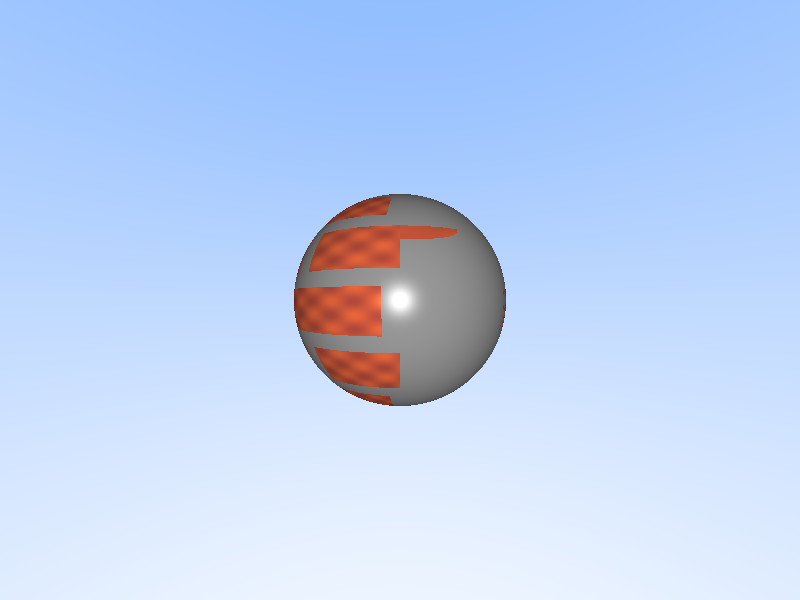
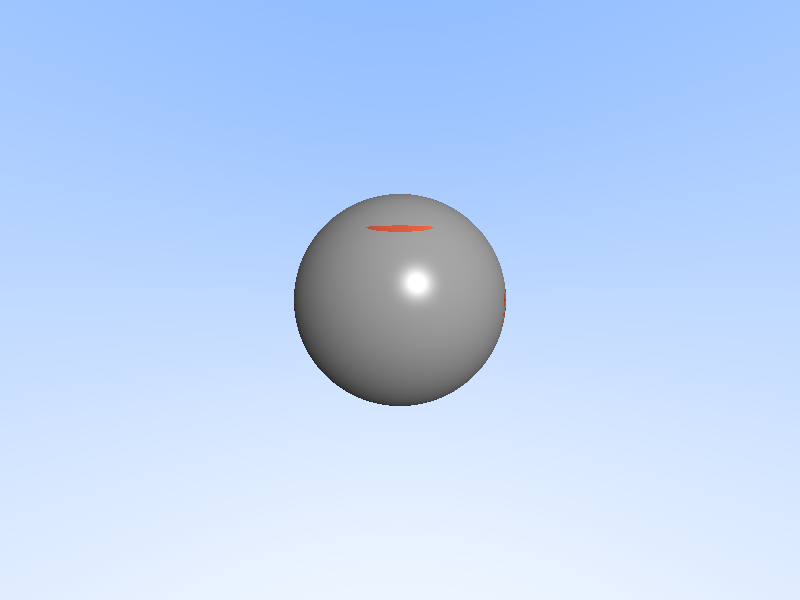
实现两张独立渲染图对比（参数：scale=0.25, height=0.4, 32层）\n\n- 普通纹理映射 vs 视差贴图\n- 完全相同的场景和光照\n- 逐像素差异均值：2.86\n- 关键位置差异：100+ (砖块→灰浆偏移)

Changed region(s): [[0.3438, 0.3, 0.6562, 0.69]]

diff --git a/2026/02/02-24-Parallax-Mapping/parallax_mapping_v2.cpp b/2026/02/02-24-Parallax-Mapping/parallax_mapping_v2.cpp
@@ -1,0 +1,289 @@
+#include <iostream>
+#include <fstream>
+#include <vector>
+#include <cmath>
+#include <algorithm>
+
+const int WIDTH = 800;
+const int HEIGHT = 600;
+const double PI = 3.14159265358979323846;
+
+// 向量类
+struct Vec3 {
+    double x, y, z;
+    
+    Vec3(double x = 0, double y = 0, double z = 0) : x(x), y(y), z(z) {}
+    
+    Vec3 operator+(const Vec3& v) const { return Vec3(x + v.x, y + v.y, z + v.z); }
+    Vec3 operator-(const Vec3& v) const { return Vec3(x - v.x, y - v.y, z - v.z); }
+    Vec3 operator*(double t) const { return Vec3(x * t, y * t, z * t); }
+    Vec3 operator/(double t) const { return Vec3(x / t, y / t, z / t); }
+    
+    double dot(const Vec3& v) const { return x * v.x + y * v.y + z * v.z; }
+    
+    Vec3 cross(const Vec3& v) const {
+        return Vec3(y * v.z - z * v.y,
+                    z * v.x - x * v.z,
+                    x * v.y - y * v.x);
+    }
+    
+    double length() const { return std::sqrt(x * x + y * y + z * z); }
+    Vec3 normalize() const { return *this / length(); }
+    
+    Vec3 clamp(double min = 0.0, double max = 1.0) const {
+        return Vec3(std::max(min, std::min(max, x)),
+                    std::max(min, std::min(max, y)),
+                    std::max(min, std::min(max, z)));
+    }
+};
+
+// 2D向量（用于UV坐标）
+struct Vec2 {
+    double x, y;
+    
+    Vec2(double x = 0, double y = 0) : x(x), y(y) {}
+    
+    Vec2 operator-(const Vec2& v) const { return Vec2(x - v.x, y - v.y); }
+    Vec2 operator*(double t) const { return Vec2(x * t, y * t); }
+};
+
+// 射线类
+struct Ray {
+    Vec3 origin;
+    Vec3 direction;
+    
+    Ray(const Vec3& o, const Vec3& d) : origin(o), direction(d) {}
+    
+    Vec3 at(double t) const {
+        return origin + direction * t;
+    }
+};
+
+// 球体类
+class Sphere {
+public:
+    Vec3 center;
+    double radius;
+    
+    Sphere(const Vec3& c, double r) : center(c), radius(r) {}
+    
+    // 射线-球体求交
+    bool intersect(const Ray& ray, double& t) const {
+        Vec3 oc = ray.origin - center;
+        double a = ray.direction.dot(ray.direction);
+        double b = 2.0 * oc.dot(ray.direction);
+        double c = oc.dot(oc) - radius * radius;
+        double discriminant = b * b - 4 * a * c;
+        
+        if (discriminant < 0) {
+            return false;
+        }
+        
+        t = (-b - std::sqrt(discriminant)) / (2.0 * a);
+        return t > 0.001;
+    }
+    
+    // 获取表面法线
+    Vec3 getNormal(const Vec3& point) const {
+        return (point - center).normalize();
+    }
+    
+    // 球面UV坐标
+    void getUV(const Vec3& point, double& u, double& v) const {
+        Vec3 p = (point - center).normalize();
+        u = 0.5 + std::atan2(p.z, p.x) / (2.0 * PI);
+        v = 0.5 - std::asin(p.y) / PI;
+    }
+    
+    // 获取TBN矩阵（切线空间）
+    void getTBN(const Vec3& point, Vec3& T, Vec3& B, Vec3& N) const {
+        N = getNormal(point);
+        
+        // 计算切线
+        Vec3 up = std::abs(N.y) < 0.999 ? Vec3(0, 1, 0) : Vec3(1, 0, 0);
+        T = up.cross(N).normalize();
+        B = N.cross(T).normalize();
+    }
+};
+
+// 程序化纹理：砖块纹理（带高度信息）
+Vec3 brickTexture(double u, double v, double& height) {
+    // 砖块尺寸
+    const double brick_width = 0.3;
+    const double brick_height = 0.15;
+    const double mortar_width = 0.02;
+    
+    // 交错排列
+    double row = std::floor(v / brick_height);
+    double offset = (int(row) % 2) * brick_width * 0.5;
+    
+    double x = std::fmod(u + offset, brick_width);
+    double y = std::fmod(v, brick_height);
+    
+    // 判断是砖块还是灰浆
+    bool is_mortar = (x < mortar_width || x > brick_width - mortar_width ||
+                      y < mortar_width || y > brick_height - mortar_width);
+    
+    if (is_mortar) {
+        height = 0.0; // 灰浆深度为0
+        return Vec3(0.5, 0.5, 0.5); // 灰色灰浆
+    } else {
+        height = 0.4; // 增大砖块高度（从0.2到0.4）
+        // 砖块颜色（红褐色，带一些变化）
+        double noise = std::sin(u * 100.0) * std::cos(v * 100.0) * 0.1;
+        return Vec3(0.7 + noise, 0.3 + noise * 0.5, 0.2);
+    }
+}
+
+// Phong光照模型
+Vec3 phong_shading(const Vec3& normal, const Vec3& view_dir, const Vec3& light_dir, const Vec3& diffuse_color) {
+    double shininess = 32.0;
+    
+    // 环境光
+    Vec3 ambient = diffuse_color * 0.3;
+    
+    // 漫反射
+    double diff = std::max(0.0, normal.dot(light_dir));
+    Vec3 diffuse = diffuse_color * diff;
+    
+    // 镜面反射
+    Vec3 reflect_dir = (normal * 2.0 * normal.dot(light_dir) - light_dir).normalize();
+    double spec = std::pow(std::max(0.0, view_dir.dot(reflect_dir)), shininess);
+    Vec3 specular = Vec3(1.0, 1.0, 1.0) * spec * 0.5;
+    
+    return (ambient + diffuse + specular).clamp();
+}
+
+// Steep Parallax Mapping
+Vec3 parallax_mapping(const Vec3& point, const Sphere& sphere, const Vec3& view_dir, const Vec3& light_dir, bool use_parallax) {
+    // 获取UV坐标
+    double u, v;
+    sphere.getUV(point, u, v);
+    
+    // 获取TBN矩阵
+    Vec3 T, B, N;
+    sphere.getTBN(point, T, B, N);
+    
+    // 如果使用视差贴图，偏移UV坐标
+    if (use_parallax) {
+        // 将视线方向转换到切线空间
+        Vec3 view_tangent = Vec3(view_dir.dot(T), view_dir.dot(B), view_dir.dot(N));
+        
+        // Steep Parallax Mapping - 沿视线方向分层采样
+        const int num_layers = 32;  // 增加层数到32（提高精度）
+        double layer_depth = 1.0 / num_layers;
+        double current_depth = 0.0;
+        
+        double parallax_scale = 0.25;  // 进一步增大（0.15 → 0.25）
+        Vec2 delta_uv = Vec2(view_tangent.x / view_tangent.z * parallax_scale,
+                             view_tangent.y / view_tangent.z * parallax_scale);
+        Vec2 current_uv = Vec2(u, v);
+        
+        // 沿着视线方向步进，直到找到高度匹配的点
+        double current_height;
+        brickTexture(current_uv.x, current_uv.y, current_height);
+        
+        while (current_depth < current_height && current_depth < 1.0) {
+            current_uv = current_uv - delta_uv * layer_depth;
+            brickTexture(current_uv.x, current_uv.y, current_height);
+            current_depth += layer_depth;
+        }
+        
+        u = current_uv.x;
+        v = current_uv.y;
+        
+        // 确保UV在[0,1]范围内（可以重复）
+        u = u - std::floor(u);
+        v = v - std::floor(v);
+    }
+    
+    // 采样纹理颜色
+    double height;
+    Vec3 tex_color = brickTexture(u, v, height);
+    
+    // Phong光照（使用表面法线）
+    Vec3 color = phong_shading(N, view_dir, light_dir, tex_color);
+    
+    return color;
+}
+
+// 保存PPM图片
+void save_ppm(const std::string& filename, const std::vector<Vec3>& pixels, int width, int height) {
+    std::ofstream file(filename);
+    file << "P3\n" << width << " " << height << "\n255\n";
+    
+    for (int j = height - 1; j >= 0; j--) {
+        for (int i = 0; i < width; i++) {
+            Vec3 color = pixels[j * width + i];
+            int r = static_cast<int>(255.99 * color.x);
+            int g = static_cast<int>(255.99 * color.y);
+            int b = static_cast<int>(255.99 * color.z);
+            file << r << " " << g << " " << b << "\n";
+        }
+    }
+    file.close();
+}
+
+// 渲染单张图片
+void render_scene(const std::string& filename, bool use_parallax, const std::string& description) {
+    std::cout << "\n📸 " << description << std::endl;
+    
+    Sphere sphere(Vec3(0, 0, -3), 1.0);
+    Vec3 light_dir = Vec3(0.3, 0.3, 1.0).normalize();  // 斜向光照，展示立体感
+    
+    std::vector<Vec3> pixels(WIDTH * HEIGHT);
+    
+    for (int j = 0; j < HEIGHT; j++) {
+        if (j % 100 == 0) {
+            std::cout << "  进度: " << (100.0 * j / HEIGHT) << "%" << std::endl;
+        }
+        
+        for (int i = 0; i < WIDTH; i++) {
+            double u = (i + 0.5) / WIDTH;
+            double v = (j + 0.5) / HEIGHT;
+            
+            double aspect = double(WIDTH) / double(HEIGHT);
+            double x = (2.0 * u - 1.0) * aspect;
+            double y = 2.0 * v - 1.0;
+            
+            Vec3 ray_dir = Vec3(x, y, -1.0).normalize();
+            Ray ray(Vec3(0, 0, 0), ray_dir);
+            
+            double t;
+            bool hit = sphere.intersect(ray, t);
+            
+            Vec3 color;
+            if (hit) {
+                Vec3 hit_point = ray.at(t);
+                Vec3 view_dir = (ray.origin - hit_point).normalize();
+                color = parallax_mapping(hit_point, sphere, view_dir, light_dir, use_parallax);
+            } else {
+                double gradient = 0.5 * (ray_dir.y + 1.0);
+                color = Vec3(0.5, 0.7, 1.0) * gradient + Vec3(1.0, 1.0, 1.0) * (1.0 - gradient);
+            }
+            
+            pixels[j * WIDTH + i] = color;
+        }
+    }
+    
+    save_ppm(filename, pixels, WIDTH, HEIGHT);
+    std::cout << "✅ 已保存: " << filename << std::endl;
+}
+
+int main() {
+    std::cout << "========================================" << std::endl;
+    std::cout << "  Parallax Mapping 对比渲染" << std::endl;
+    std::cout << "  完全相同的场景，只改变视差开关" << std::endl;
+    std::cout << "========================================" << std::endl;
+    
+    render_scene("normal_texture.ppm", false, "渲染图1：普通纹理映射（无视差）");
+    render_scene("parallax_texture.ppm", true, "渲染图2：Steep Parallax Mapping（视差贴图）");
+    
+    std::cout << "\n🎉 渲染完成！" << std::endl;
+    std::cout << "📊 两张图片条件完全相同，只有视差贴图开关不同。" << std::endl;
+    std::cout << "📁 输出文件：" << std::endl;
+    std::cout << "   - normal_texture.ppm   (普通纹理)" << std::endl;
+    std::cout << "   - parallax_texture.ppm (视差贴图)" << std::endl;
+    
+    return 0;
+}
